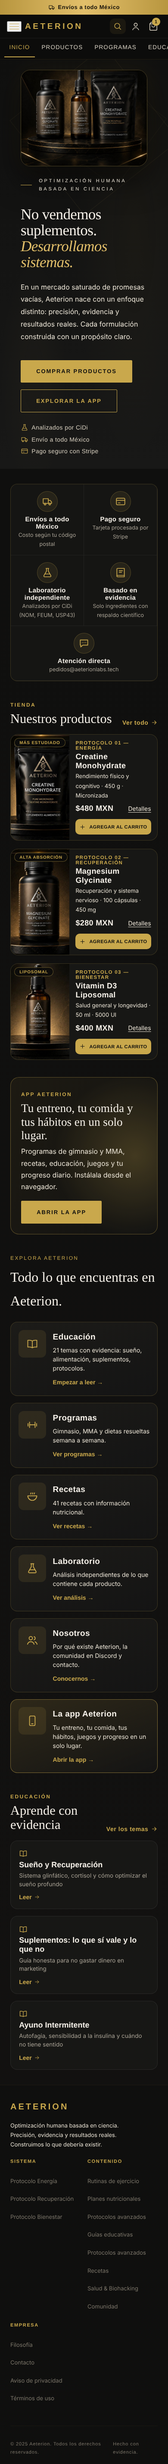
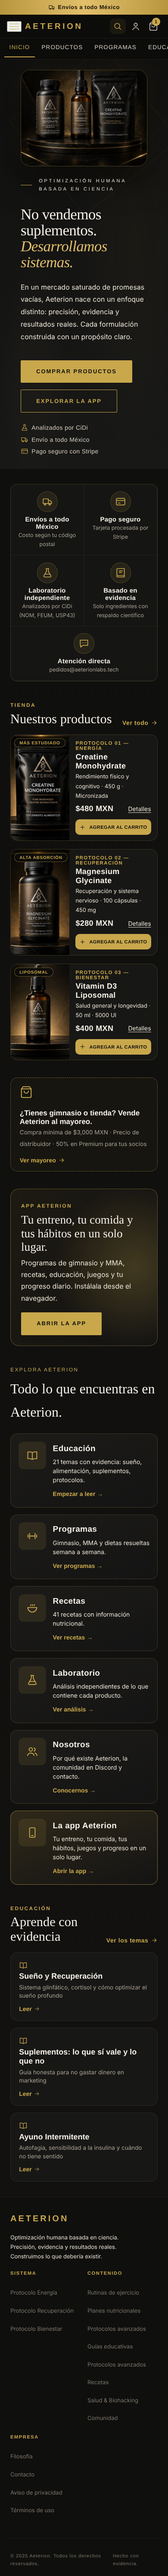
Página web: sección Mayoreo (compra mínima $3,000, 50% en Premium para socios de gimnasios, botón a WhatsApp)
Claude-Session: https://claude.ai/code/session_014hQcQ5zCXChoL5Najh2S7U

diff --git a/web.js b/web.js
@@ -4,7 +4,7 @@
    sección del menú muestra solo lo suyo (con pestañas internas), como
    en la app. No borra ni mueve contenido: solo oculta lo que no toca.
    Solo actúa en la página web (no en la app: body.modo-app).
-   Rutas: #/inicio · #/productos[/laboratorio|/proximamente] ·
+   Rutas: #/inicio · #/productos[/laboratorio|/proximamente|/mayoreo] ·
    #/programas[/guias|/recetas] · #/educacion[/<tema>] · #/nosotros[/comunidad|/contacto]
    Los enlaces viejos (#productos, #salud, #contacto…) siguen funcionando.
 ============================================================ */
@@ -13,7 +13,7 @@
 const $ = (id) => document.getElementById(id);
 const PAGINAS = [
   { k: 'inicio', n: 'Inicio', secs: [['hero', ''], ['webInicio', '']] },
-  { k: 'productos', n: 'Productos', subs: [['productos', 'Productos'], ['laboratorio', 'Análisis de laboratorio'], ['proximamente', 'Próximamente']] },
+  { k: 'productos', n: 'Productos', subs: [['productos', 'Productos'], ['laboratorio', 'Análisis de laboratorio'], ['proximamente', 'Próximamente'], ['mayoreo', 'Mayoreo']] },
   { k: 'programas', n: 'Programas', subs: [['sistema', 'El sistema'], ['guias', 'Programas'], ['recetas', 'Recetas']] },
   { k: 'educacion', n: 'Educación', secs: [['webEduSec', '']] },
   { k: 'nosotros', n: 'Nosotros', subs: [['filosofia', 'Filosofía'], ['comunidad', 'Comunidad'], ['contacto', 'Contacto']] },
@@ -38,6 +38,7 @@ function montar() {
     <a class="wb-card wb-app" href="./?modo=app"><span class="wb-ico">📱</span><div><b>La app Aeterion</b><p>Tu entreno, tu comida, tus hábitos, juegos y progreso en un solo lugar.</p><em>Abrir la app →</em></div></a>
   </div></div>`;
   if (hero && hero.parentNode) hero.parentNode.insertBefore(ini, hero.nextSibling);
+  try { mayoreo(); } catch (e) { console.warn('mayoreo', e); }
   // Biblioteca de educación (la misma de la app)
   const edu = document.createElement('section'); edu.id = 'webEduSec';
   edu.innerHTML = '<div class="contenedor wb-edu"><div id="webEdu" class="ed-raiz"></div></div>';
@@ -52,7 +53,7 @@ function montar() {
   const nm = $('navMobile');
   if (nm) { nm.querySelectorAll('a:not(.nav-cta-m)').forEach((a) => a.remove()); nm.insertAdjacentHTML('beforeend', PAGINAS.map((p) => `<a href="#/${p.k}" data-wp="${p.k}" onclick="toggleNavMobile()">${p.n}</a>`).join('') + '<a href="./?modo=app" onclick="toggleNavMobile()">Abrir app</a>'); }
   const logo = document.querySelector('#nav .nav-logo'); if (logo) { logo.style.cursor = 'pointer'; logo.addEventListener('click', () => { location.hash = '#/inicio'; }); }
-  try { cabeceraPro(); portadaPro(); } catch (e) { console.warn('web pro', e); }
+  try { cabeceraPro(); portadaPro(); bandaMayoreo(); } catch (e) { console.warn('web pro', e); }
   window.addEventListener('hashchange', rutear);
   rutear();
 }
@@ -135,7 +136,7 @@ function indice() {
   });
   [['Recetas', 'Programas', '#/programas/recetas', 'recetas comida cocina desayuno cena'], ['Programas de entrenamiento', 'Programas', '#/programas/guias', 'programas gimnasio gym mma rutina dieta plan'],
    ['Análisis de laboratorio', 'Productos', '#/productos/laboratorio', 'laboratorio analisis cidi metales pureza calidad'], ['Próximos productos', 'Productos', '#/productos/proximamente', 'proximamente nuevos lanzamientos'],
-   ['Comunidad en Discord', 'Nosotros', '#/nosotros/comunidad', 'comunidad discord'], ['Contacto', 'Nosotros', '#/nosotros/contacto', 'contacto correo whatsapp ayuda pedidos envio'],
+   ['Mayoreo para gimnasios y tiendas', 'Productos', '#/productos/mayoreo', 'mayoreo distribuidor gimnasio gym tienda revender negocio coach'], ['Comunidad en Discord', 'Nosotros', '#/nosotros/comunidad', 'comunidad discord'], ['Contacto', 'Nosotros', '#/nosotros/contacto', 'contacto correo whatsapp ayuda pedidos envio'],
    ['La app Aeterion', 'App', './?modo=app', 'app aplicacion entreno habitos juegos trivia memorama']].forEach(([t, s, h, q]) => INDICE.push({ t, s, h, q: sinAc(t + ' ' + q) }));
   return INDICE;
 }
@@ -196,6 +197,52 @@ function portadaPro() {
     window.aetPintarCatalogo = function () { const r = orig.apply(this, arguments); try { pintar(); } catch (e) {} return r; };
     try { window.aetPintarCatalogo(); } catch (e) {}
   }
+}
+
+
+/* ---------- Mayoreo (gimnasios, tiendas, coaches) ---------- */
+const WA = 'https://wa.me/525613241969?text=' + encodeURIComponent('Hola, me interesa vender Aeterion al mayoreo. Mi negocio es: ');
+const IC_WA = '<path d="M20.5 11.6a8.4 8.4 0 0 1-12.4 7.4L3.5 20.5 5 16a8.4 8.4 0 1 1 15.5-4.4z"/><path d="M8.8 8.3c.2-.5.5-.5.8-.5h.5c.2 0 .4 0 .5.4l.7 1.6c.1.2 0 .4-.1.6l-.5.6c-.1.1-.2.3 0 .5.4.7 1.6 2 3 2.5.2.1.4 0 .5-.1l.6-.7c.2-.2.4-.2.6-.1l1.5.7c.3.1.3.3.3.5 0 .6-.4 1.5-1.4 1.7-.8.2-2.2.1-4.2-1.3-1.7-1.2-2.8-3-3-3.6-.4-1-.2-1.9.2-2.2z"/>';
+function mayoreo() {
+  if ($('mayoreo')) return;
+  const prox = $('proximamente'); if (!prox || !prox.parentNode) return;
+  const s = document.createElement('section'); s.id = 'mayoreo';
+  s.innerHTML = `<div class="contenedor my">
+    <div class="my-hero">
+      <div><span class="my-eye">Mayoreo · Gimnasios, tiendas y coaches</span>
+        <h2>Vende Aeterion <em>en tu negocio.</em></h2>
+        <p>Precio de distribuidor en creatina, magnesio y vitamina D3 con análisis de laboratorio. Tú vendes un producto que se explica solo; nosotros te damos el respaldo de la marca y de la app.</p>
+        <div class="my-btns"><a class="btn my-wa" href="${WA}" target="_blank" rel="noopener">${I(IC_WA, 20)} Cotizar por WhatsApp</a><a class="btn btn-outline" href="#my-como">Cómo funciona</a></div>
+        <small class="my-nota">Te respondemos por WhatsApp al +52 56 1324 1969 con la lista de precios de distribuidor.</small>
+      </div>
+      <img src="img/hero-productos.jpg" alt="Productos Aeterion para mayoreo" loading="lazy" width="1200" height="914">
+    </div>
+    <div class="my-claves">
+      <div><span>${I(IC.bolsa, 26)}</span><b>Compra mínima de $3,000 MXN</b><p>Arma tu pedido con los productos que más se mueven en tu negocio.</p></div>
+      <div><span>${I(IC.pago, 26)}</span><b>Precio de distribuidor</b><p>Margen por pieza para que ganes en cada venta. Te enviamos la lista completa por WhatsApp.</p></div>
+      <div class="my-dest"><span>${I(IC.app, 26)}</span><b>50% en Aeterion Premium para tus socios</b><p>Si eres gimnasio y tu compra es de $3,000 o más, te damos códigos de 50% de descuento en Premium para tus usuarios.</p></div>
+    </div>
+    <div class="my-dos">
+      <div class="my-por"><h3>Por qué se vende</h3><ul>
+        <li>${I(IC.lab, 20)}<span><b>Analizados en laboratorio independiente</b> (CiDi). Tus clientes pueden ver qué contiene cada producto.</span></li>
+        <li>${I(IC.ciencia, 20)}<span><b>Los suplementos con más evidencia:</b> creatina, magnesio glicinato y vitamina D3. Se recompran cada mes.</span></li>
+        <li>${I(IC.pesa, 20)}<span><b>Hechos para quien entrena.</b> Encajan en cualquier gimnasio, box o academia.</span></li>
+        <li>${I(IC.app, 20)}<span><b>Una app que fideliza:</b> programas de gym y MMA, recetas y educación. Tus socios se quedan y regresan.</span></li>
+      </ul></div>
+      <div class="my-como" id="my-como"><h3>Cómo funciona</h3><ol>
+        <li><b>Escríbenos por WhatsApp</b><span>Cuéntanos qué negocio tienes y dónde estás.</span></li>
+        <li><b>Recibe la lista de distribuidor</b><span>Precios, margen por pieza y precio sugerido de venta.</span></li>
+        <li><b>Haz tu pedido</b><span>Desde $3,000 MXN. El envío se cotiza según tu código postal.</span></li>
+        <li><b>Vende y activa a tus socios</b><span>Si eres gimnasio, recibes tus códigos de 50% en Premium.</span></li>
+      </ol></div>
+    </div>
+    <div class="my-final"><div><h3>¿Tienes un gimnasio, tienda o eres coach?</h3><p>Escríbenos y te mandamos la lista de precios de distribuidor hoy mismo.</p></div><a class="btn my-wa" href="${WA}" target="_blank" rel="noopener">${I(IC_WA, 20)} Quiero vender Aeterion</a></div>
+  </div>`;
+  prox.parentNode.insertBefore(s, prox.nextSibling);
+}
+function bandaMayoreo() {
+  const cont = $('webInicio') && $('webInicio').querySelector('.wb-app-banda');
+  if (cont) cont.insertAdjacentHTML('beforebegin', `<a class="my-banda" href="#/productos/mayoreo"><span>${I(IC.bolsa, 30)}</span><div><b>¿Tienes gimnasio o tienda? Vende Aeterion al mayoreo.</b><small>Compra mínima de $3,000 MXN · Precio de distribuidor · 50% en Premium para tus socios</small></div><em>Ver mayoreo ${I(IC.flecha, 16)}</em></a>`);
 }
 
 // Qué mostrar para un hash
@@ -406,6 +453,47 @@ body.web-secciones #carrito-btn{display:none!important}
 .wb-edu-tea small{color:var(--gris);font-size:13.5px;line-height:1.45}
 .wb-edu-tea em{font-style:normal;color:var(--oro);font:600 14px var(--font-ui);display:flex;align-items:center;gap:.3rem;margin-top:auto;padding-top:.4rem}
 @media (max-width:760px){.wb-edu-tea{grid-template-columns:1fr}}
+
+/* ===== Mayoreo ===== */
+#mayoreo{padding:clamp(2rem,5vw,4rem) var(--pad) clamp(3rem,6vw,5rem);background:var(--negro2)}
+.my{max-width:1200px}
+.my-hero{display:grid;grid-template-columns:1.1fr 1fr;gap:clamp(1.5rem,4vw,3rem);align-items:center;margin-bottom:2.5rem}
+.my-eye{font:600 12px var(--font-ui);letter-spacing:.2em;text-transform:uppercase;color:var(--oro)}
+.my-hero h2{font-family:var(--font-display);font-weight:400;font-size:clamp(2.3rem,5vw,3.6rem);line-height:1.05;color:var(--blanco);margin:.5rem 0 1rem}
+.my-hero h2 em{color:var(--oro);font-style:italic}
+.my-hero p{color:#d6cebe;font-size:17px;max-width:34rem;margin:0 0 1.5rem}
+.my-hero img{width:100%;max-height:440px;object-fit:cover;border-radius:20px;border:1px solid rgba(201,168,76,.3);box-shadow:0 26px 60px rgba(0,0,0,.55)}
+.my-btns{display:flex;flex-wrap:wrap;gap:.8rem}
+.my-wa{display:inline-flex!important;align-items:center;gap:.55rem}
+.my-nota{display:block;margin-top:1rem;color:var(--gris);font-size:13.5px}
+.my-claves{display:grid;grid-template-columns:repeat(3,1fr);gap:1rem;margin-bottom:2.5rem}
+.my-claves>div{background:#171715;border:1px solid rgba(201,168,76,.22);border-radius:18px;padding:1.4rem}
+.my-claves .my-dest{background:linear-gradient(140deg,#2a2312,#171715 70%);border-color:rgba(201,168,76,.6)}
+.my-claves span{width:52px;height:52px;border-radius:50%;display:grid;place-items:center;color:var(--oro);background:rgba(201,168,76,.1);border:1px solid rgba(201,168,76,.3);margin-bottom:.9rem}
+.my-claves b{display:block;color:var(--blanco);font:600 20px var(--font-ui);margin-bottom:.35rem}
+.my-claves p{color:var(--gris);font-size:14.5px;margin:0;line-height:1.5}
+.my-dos{display:grid;grid-template-columns:1fr 1fr;gap:1rem;margin-bottom:2.5rem}
+.my-dos>div{background:#151513;border:1px solid rgba(255,255,255,.07);border-radius:18px;padding:1.5rem}
+.my-dos h3{font-family:var(--font-display);font-weight:400;font-size:28px;color:var(--blanco);margin:0 0 1rem}
+.my-por ul{list-style:none;margin:0;padding:0;display:grid;gap:.9rem}
+.my-por li{display:flex;gap:.8rem;color:#cfc7b7;font-size:15px;line-height:1.5}
+.my-por li svg{color:var(--oro);flex:none;margin-top:2px}
+.my-por b{color:var(--blanco)}
+.my-como ol{list-style:none;margin:0;padding:0;counter-reset:p;display:grid;gap:1rem}
+.my-como li{counter-increment:p;display:grid;grid-template-columns:38px 1fr;column-gap:.8rem}
+.my-como li::before{content:counter(p);grid-row:span 2;width:34px;height:34px;border-radius:50%;background:var(--oro);color:#16120a;font:700 16px/34px var(--font-ui);text-align:center}
+.my-como b{color:var(--blanco);font:600 16px var(--font-ui)}
+.my-como span{color:var(--gris);font-size:14.5px}
+.my-final{display:flex;align-items:center;justify-content:space-between;gap:1.5rem;padding:clamp(1.4rem,3.5vw,2.2rem);border-radius:20px;border:1px solid rgba(201,168,76,.45);background:radial-gradient(circle at 90% 50%,rgba(201,168,76,.22),transparent 55%),#18160f}
+.my-final h3{font-family:var(--font-display);font-weight:400;font-size:clamp(1.6rem,3vw,2.2rem);color:var(--blanco);margin:0 0 .3rem}
+.my-final p{color:#d4ccbc;margin:0}
+.my-banda{display:flex;align-items:center;gap:1rem;text-decoration:none;margin-bottom:clamp(2.5rem,5vw,3.5rem);padding:1.1rem 1.3rem;border-radius:16px;border:1px dashed rgba(201,168,76,.55);background:#16150f;color:var(--texto)}
+.my-banda:hover{border-style:solid}
+.my-banda>span{color:var(--oro);flex:none}
+.my-banda b{display:block;color:var(--blanco);font:600 17px var(--font-ui)}
+.my-banda small{color:var(--gris);font-size:13.5px}
+.my-banda em{margin-left:auto;font-style:normal;color:var(--oro);font:600 14px var(--font-ui);display:flex;align-items:center;gap:.3rem;white-space:nowrap}
+@media (max-width:860px){.my-hero,.my-dos{grid-template-columns:1fr}.my-hero img{order:-1}.my-claves{grid-template-columns:1fr}.my-final{flex-direction:column;align-items:flex-start}.my-banda{flex-wrap:wrap}.my-banda em{margin-left:0}}
 `;
 document.head.appendChild(css);
 })();

diff --git a/sw.js b/sw.js
@@ -5,7 +5,7 @@
      el navegador habla directo con el servidor. Safari/iPhone exige respuestas parciales (206) reales
      para reproducir video, y las descargas no deben servirse desde una copia vieja.
    - Archivos pequeños (íconos, manifest) usan la copia guardada y se actualizan en segundo plano. */
-const CACHE = 'aeterion-v80';
+const CACHE = 'aeterion-v81';
 const ARCHIVOS_BASE = ['./index.html', './manifest.json'];
 const NO_INTERCEPTAR = /\.(mp4|m4v|mov|webm|mp3|m4a|wav|ogg|xlsx|xls|docx|doc|pdf|zip)$/i;
 

diff --git a/index.html b/index.html
@@ -10477,6 +10477,6 @@ window.addEventListener('DOMContentLoaded', detectarModoApp);
 <script src="trivia.js?v=3" defer></script>
 <script src="juegos.js?v=3" defer></script>
 <script src="educacion.js?v=2" defer></script>
-<script src="web.js?v=3" defer></script>
+<script src="web.js?v=4" defer></script>
 </body>
 </html>

diff --git a/coach/pruebas/prueba_web_secciones.py b/coach/pruebas/prueba_web_secciones.py
@@ -38,10 +38,16 @@ with sync_playwright() as p:
         menu = pg.evaluate("[...document.querySelectorAll('#nav .nav-links a')].map(a=>a.textContent.trim())")
         chk(menu == ['Inicio', 'Productos', 'Programas', 'Educación', 'Nosotros', 'Abrir app'], 'menú de 5 secciones + Abrir app')
         pg.click('.wb-tit a[href="#/productos"]'); pg.wait_for_timeout(400)
-        chk(vis(pg, 'productos') and not vis(pg, 'laboratorio') and not vis(pg, 'hero') and pg.locator('#webCab .wb-tabs a').count() == 3, 'Productos con 3 pestañas, solo una visible')
+        chk(vis(pg, 'productos') and not vis(pg, 'laboratorio') and not vis(pg, 'hero') and pg.locator('#webCab .wb-tabs a').count() == 4, 'Productos con 4 pestañas, solo una visible')
         foto(pg, '102_web_productos_' + n)
         pg.click('#webCab .wb-tabs a >> nth=1'); pg.wait_for_timeout(400)
         chk(vis(pg, 'laboratorio') and not vis(pg, 'productos') and pg.evaluate("window.scrollY") < 5, 'pestaña Laboratorio, arriba de la página')
+        ir(pg, '#/inicio'); pg.click('.my-banda'); pg.wait_for_timeout(400)
+        t = pg.inner_text('#mayoreo')
+        chk(vis(pg, 'mayoreo') and '$3,000' in t and '50%' in t and 'Premium' in t, 'Mayoreo: compra mínima $3,000 y 50% en Premium')
+        chk(not any(x in t for x in ['$260', '$270', '$180', '$399', '$449', '$299', 'Le cuesta', 'Gana']), 'Mayoreo no muestra precios ni ganancias')
+        chk(pg.locator('#mayoreo a.my-wa').count() == 2 and all(h.startswith('https://wa.me/525613241969?text=') for h in pg.eval_on_selector_all('#mayoreo a.my-wa', 'e=>e.map(a=>a.href)')), 'botones directo a WhatsApp')
+        foto(pg, '105_web_mayoreo_' + n, True)
         ir(pg, '#contacto')
         chk(vis(pg, 'contacto') and 'Nosotros' in pg.inner_text('#webCab'), 'enlace viejo #contacto abre Nosotros › Contacto')
         ir(pg, '#guias')
